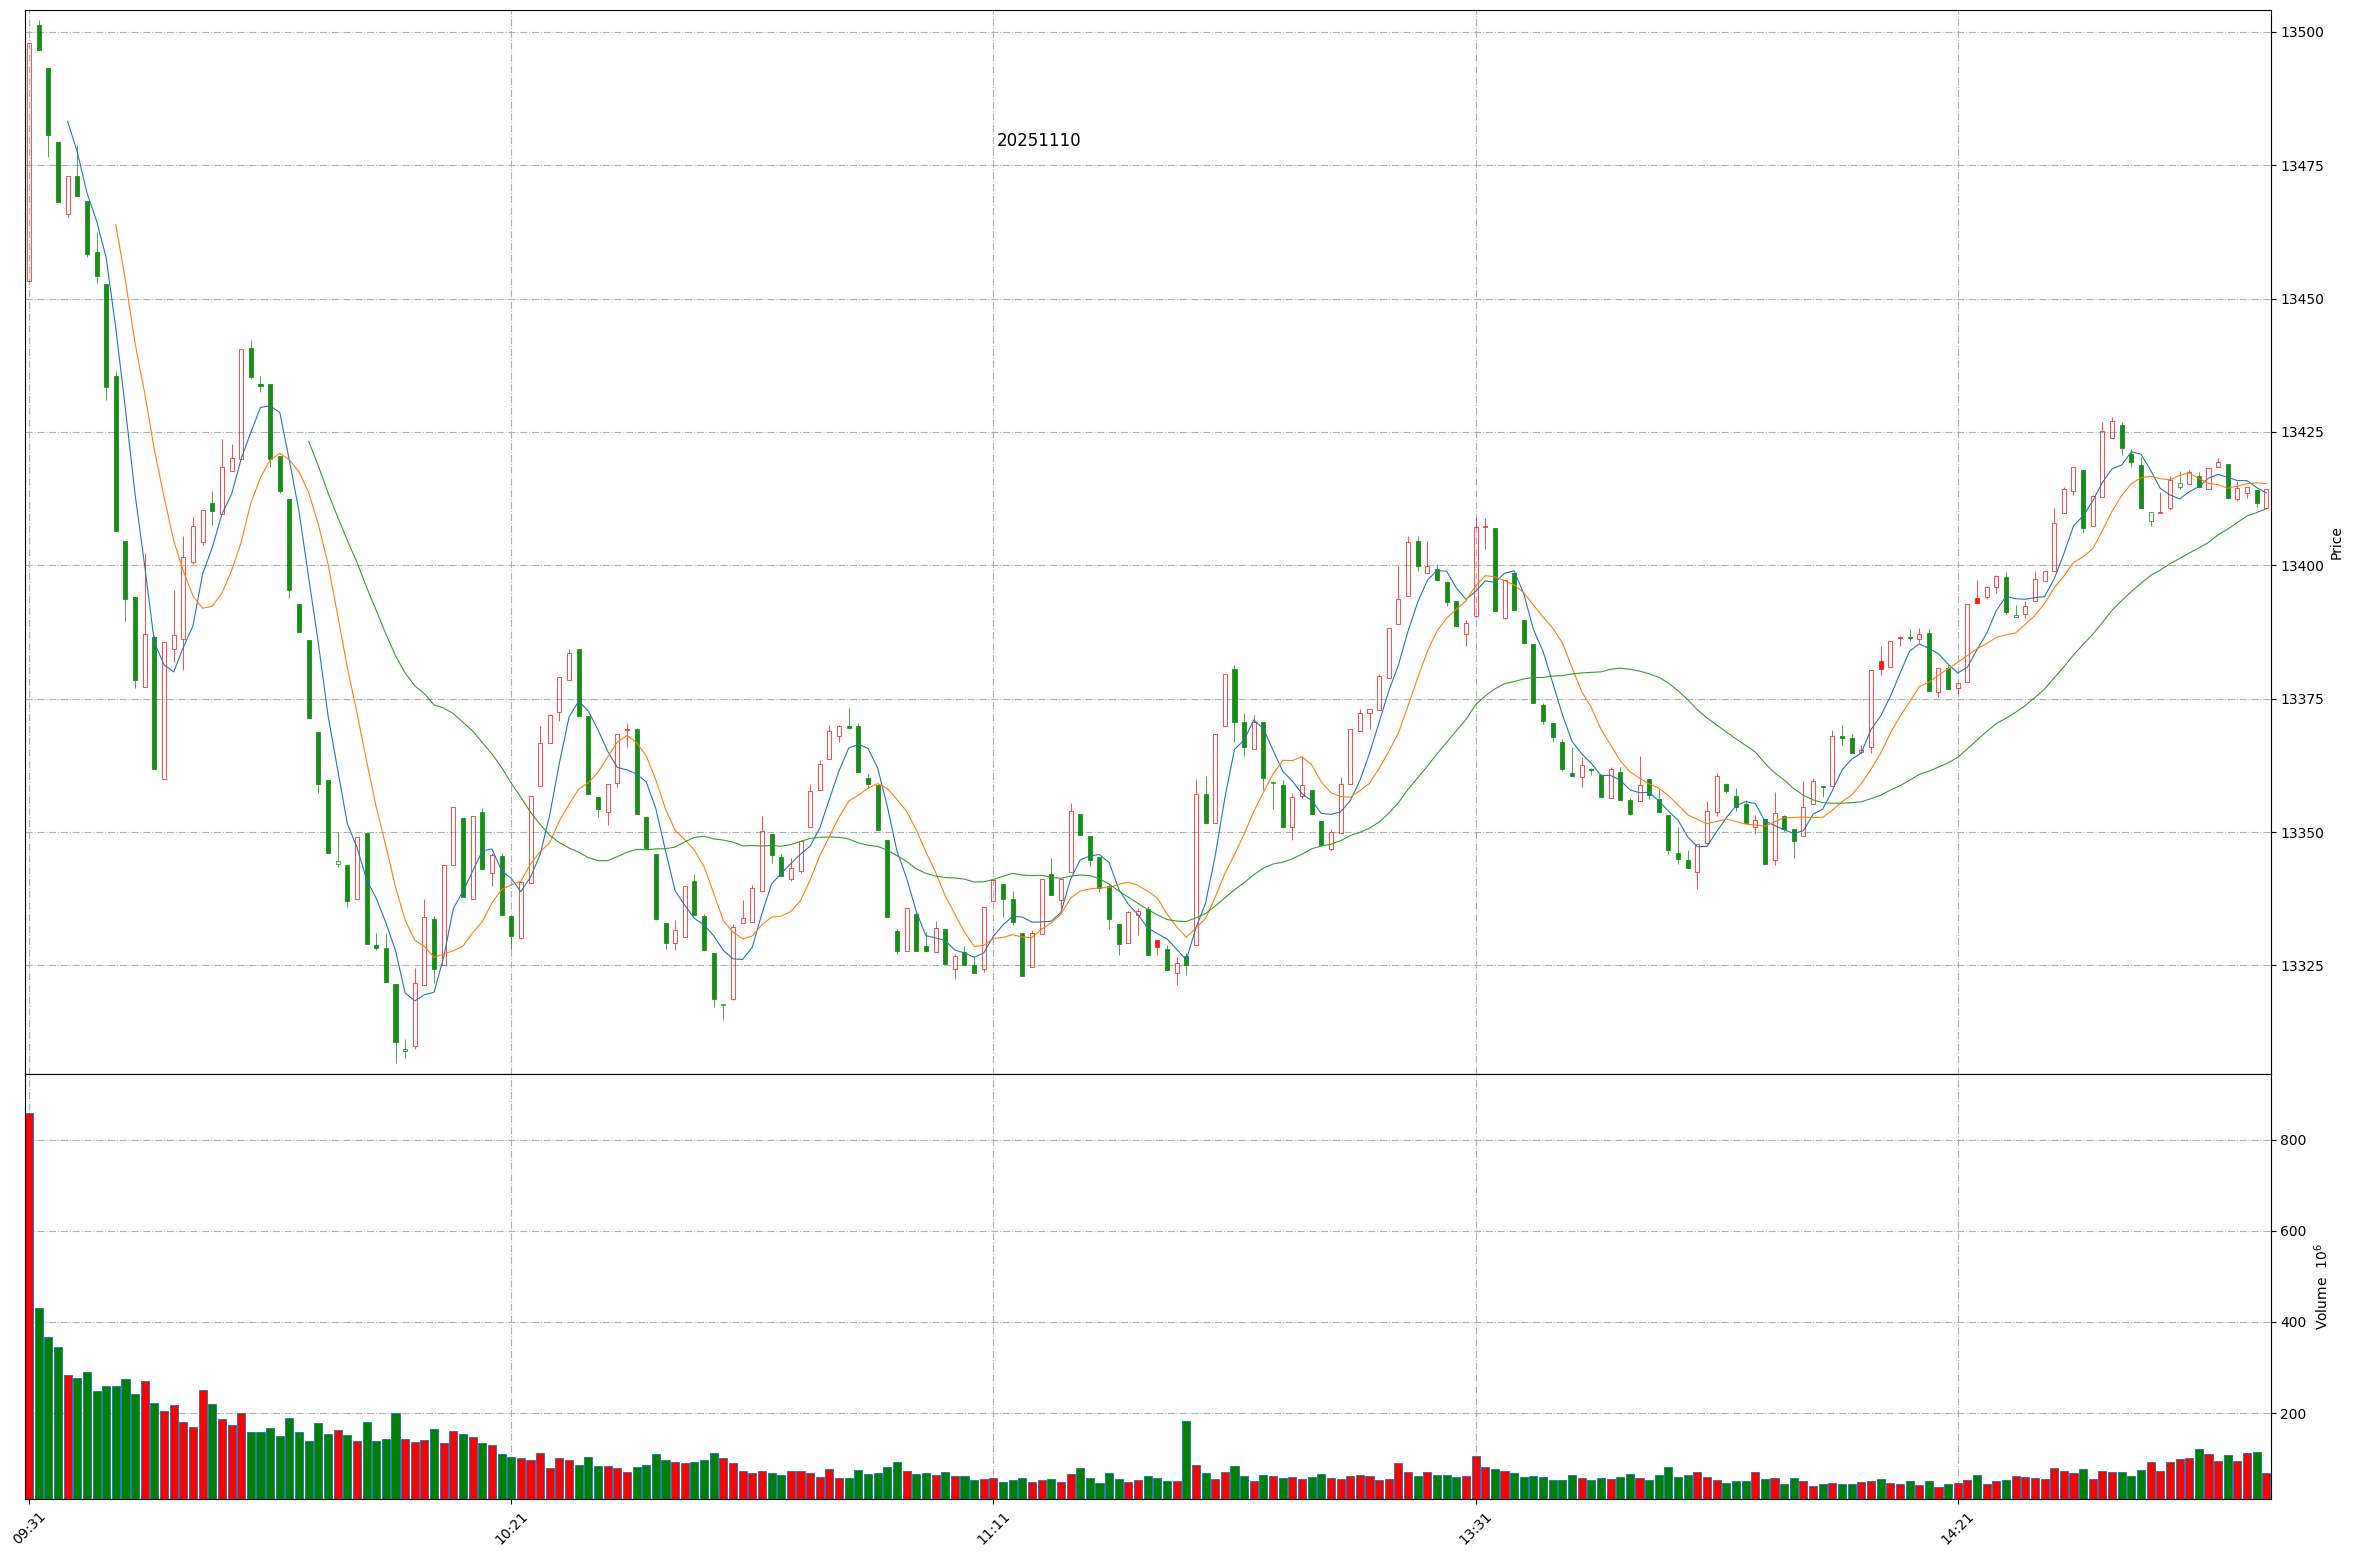
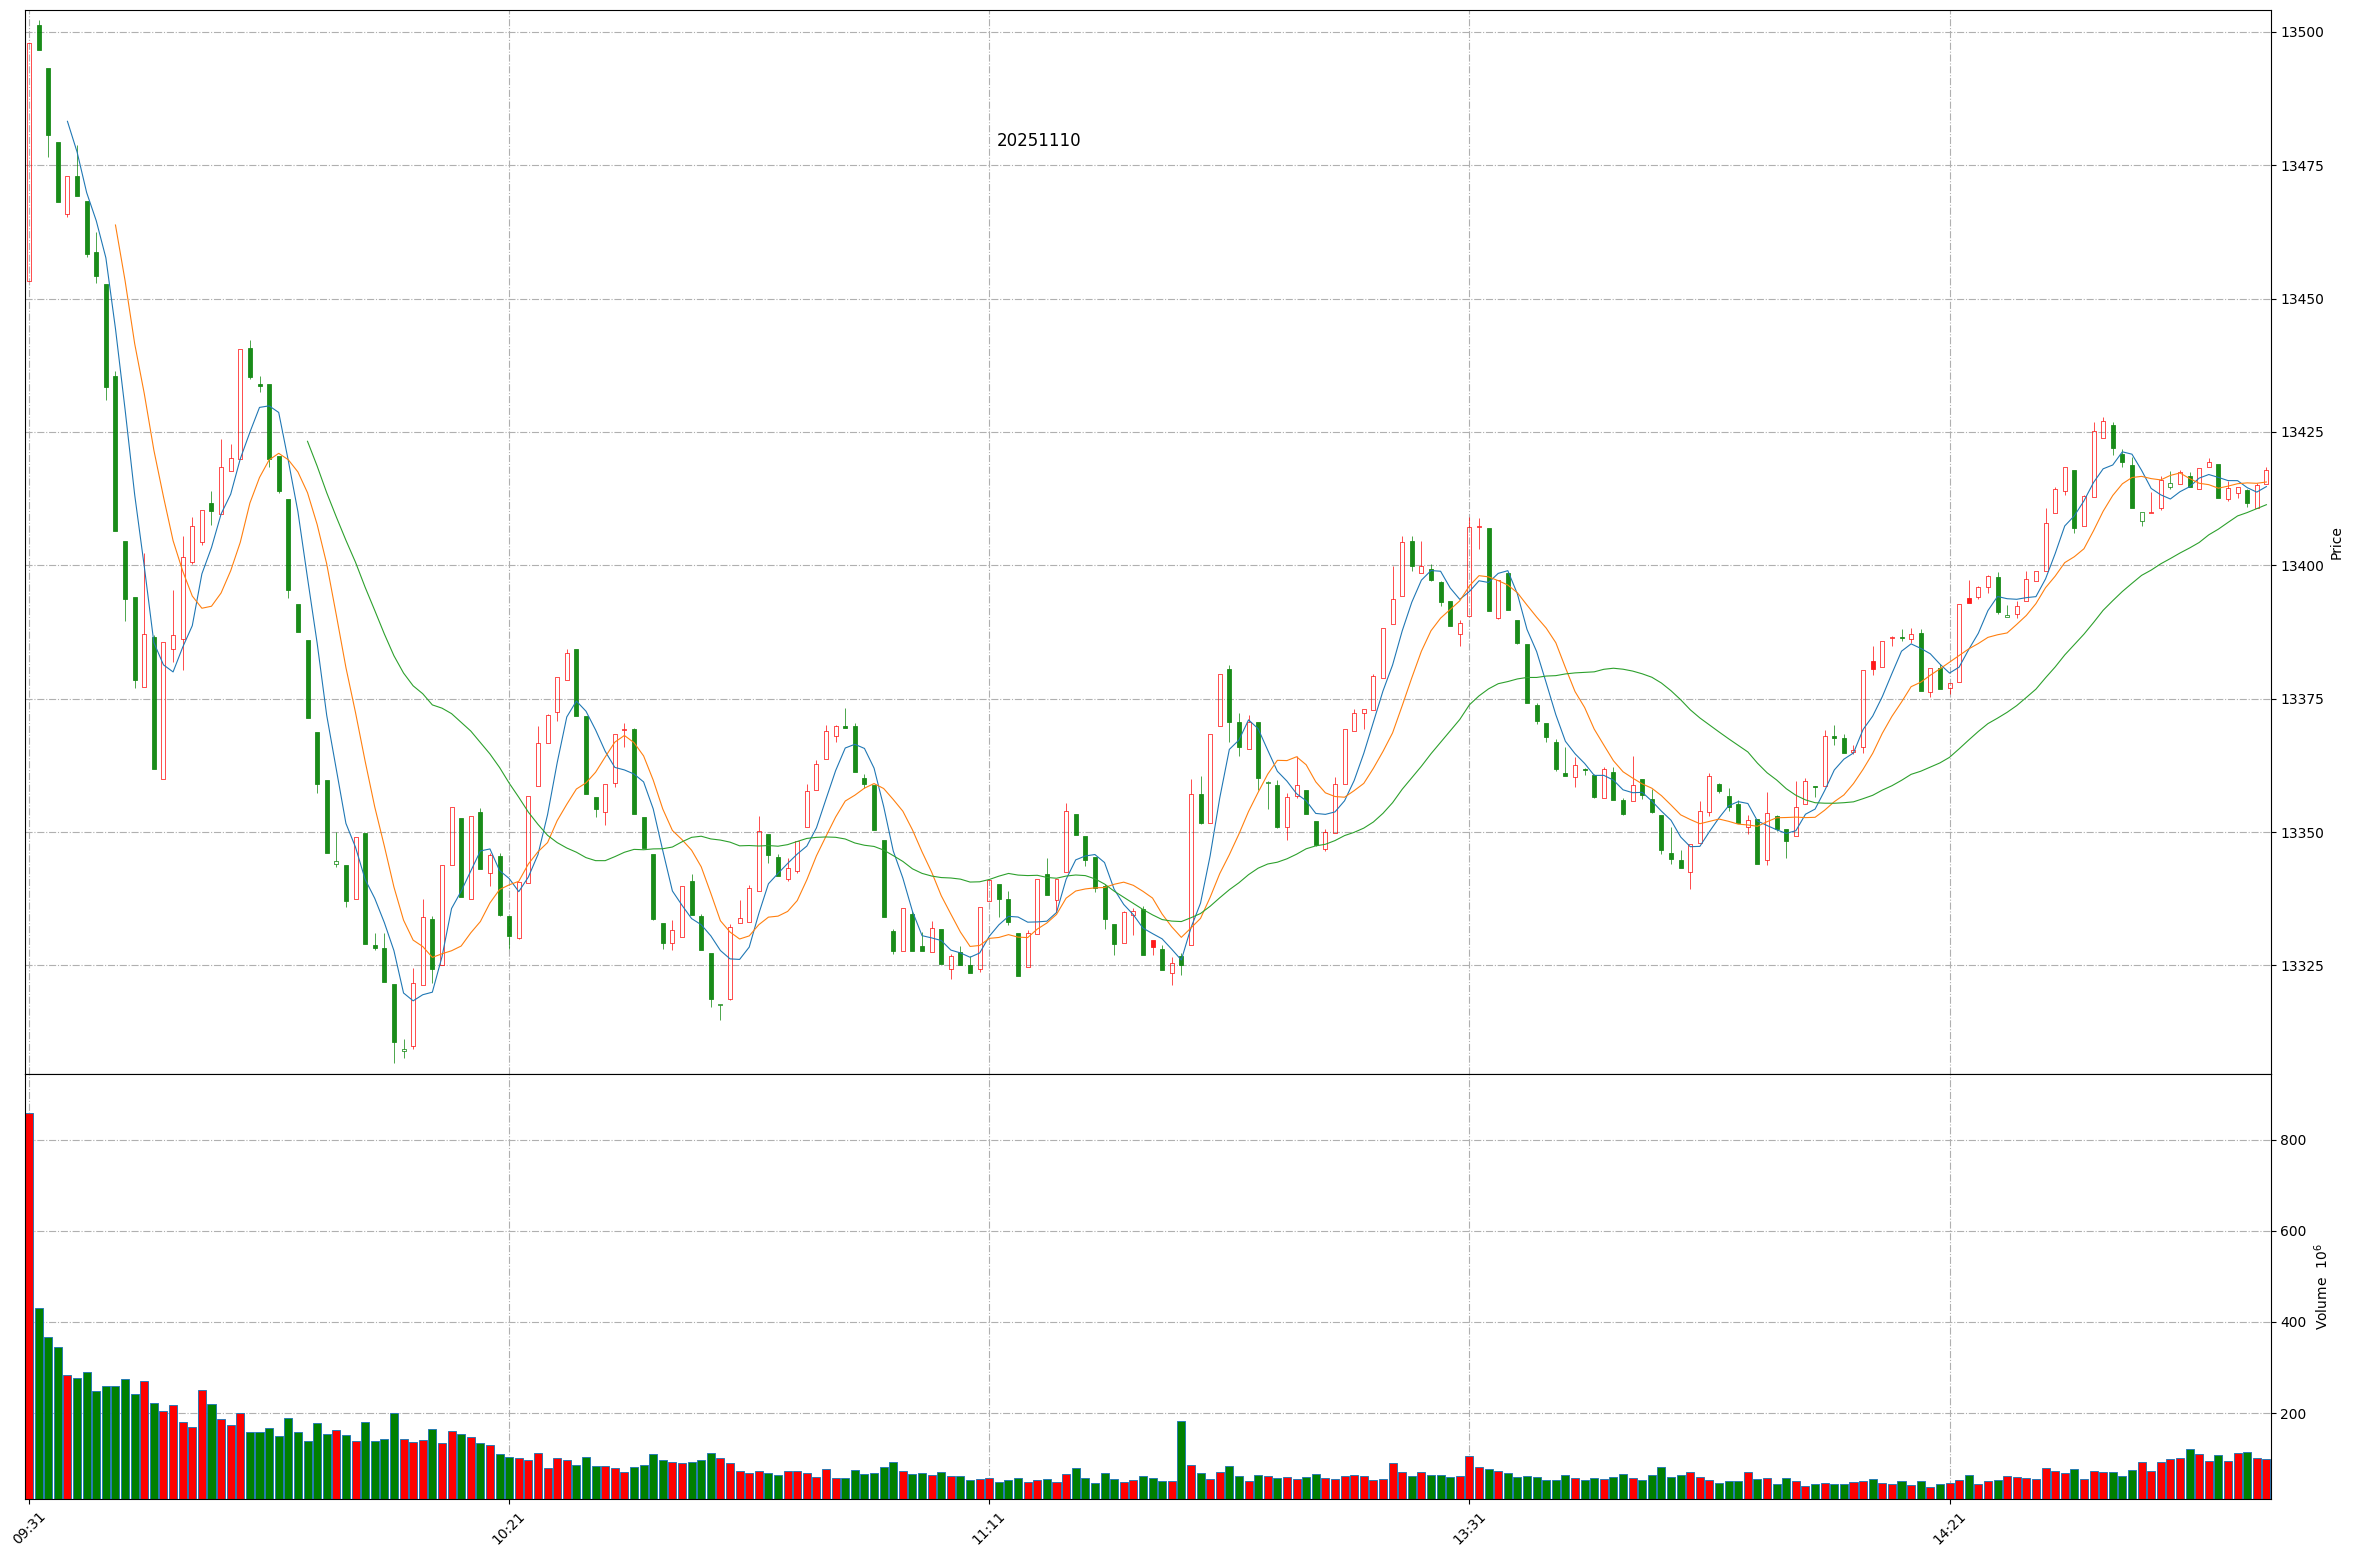
Github action update at 2025-11-10 14:54:15.

diff --git a/README.md b/README.md
@@ -1,11 +1,11 @@
 
 # Daily-A-share-market-quotes 每日 A 股指数（5min 更新）- 20251110
 
-### 上证指数 20251110 14:52
+### 上证指数 20251110 14:54
 ![](./fig/2025/11/20251110-sh000001.png)
 
-### 深证成指 20251110 14:52
+### 深证成指 20251110 14:54
 ![](./fig/2025/11/20251110-sz399001.png)
 
-### 北证50 20251110 14:52
+### 北证50 20251110 14:54
 ![](./fig/2025/11/20251110-bj899050.png)
